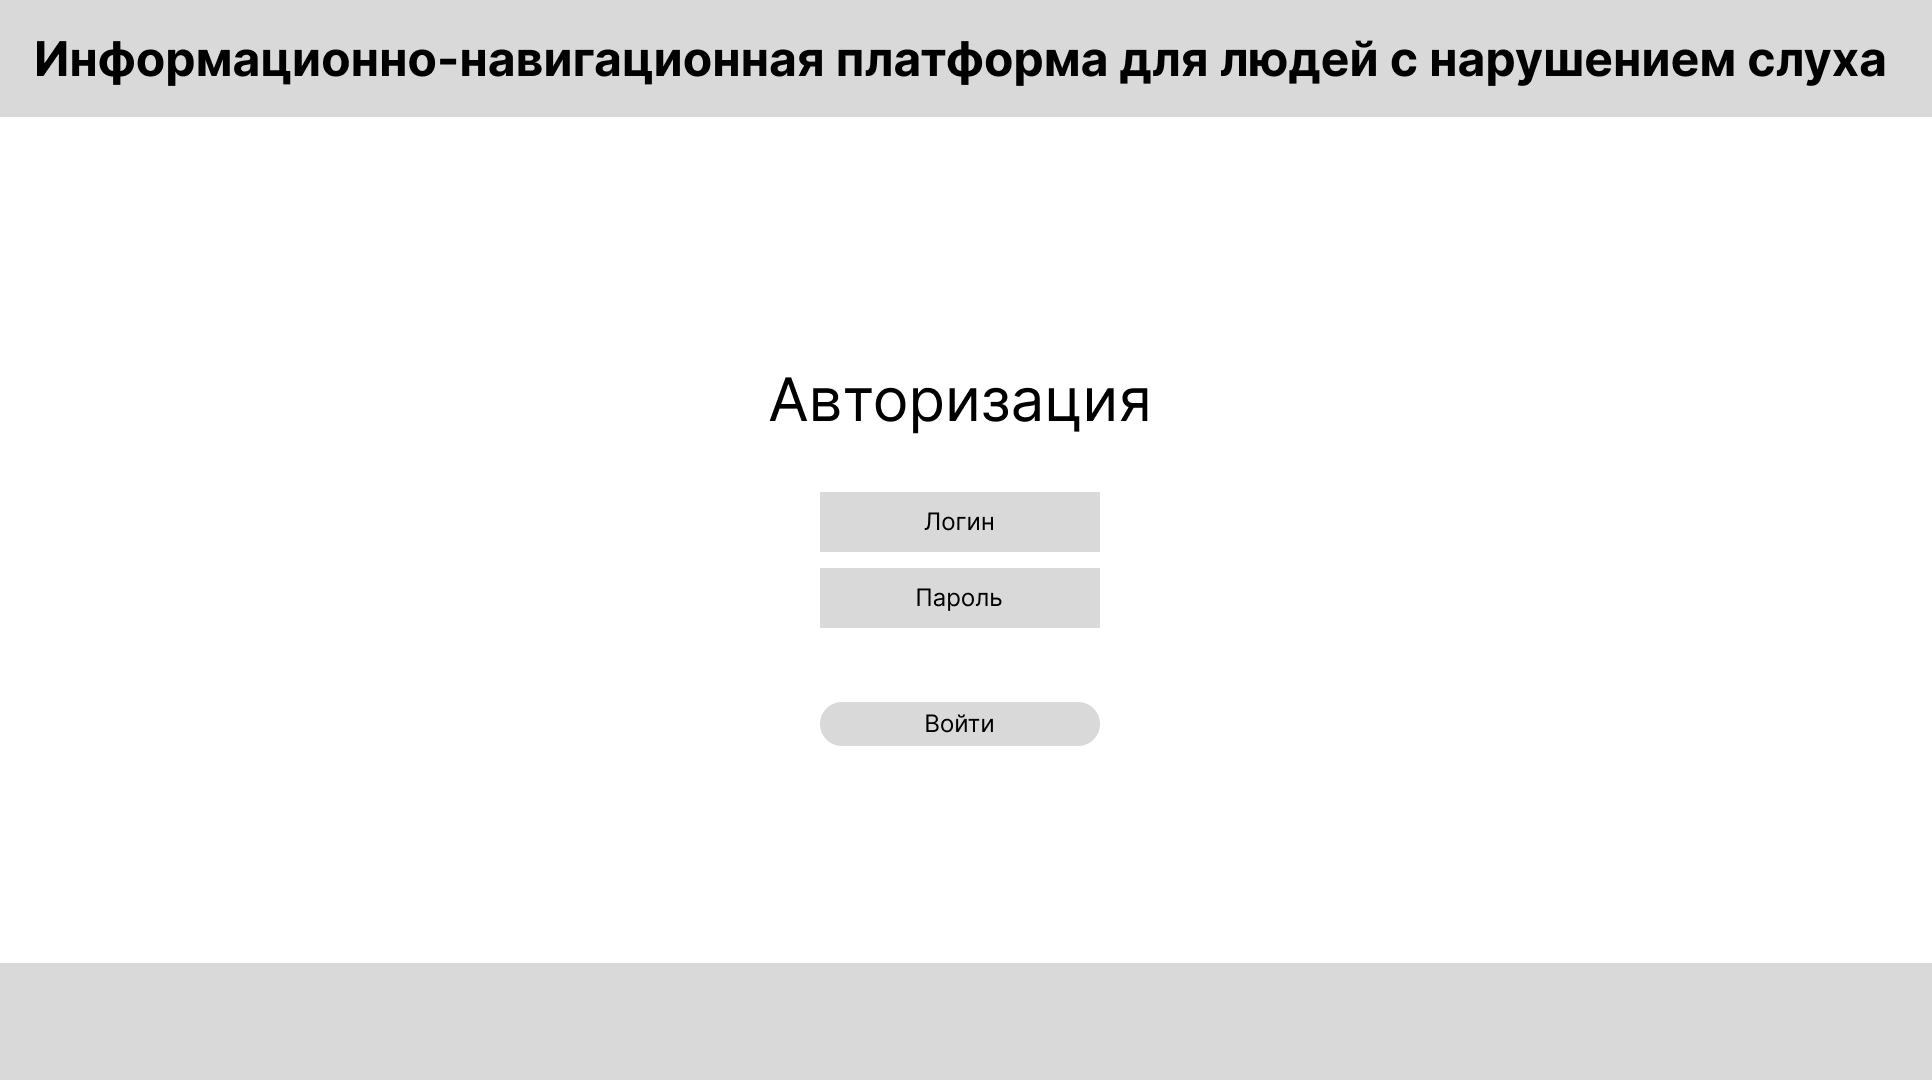
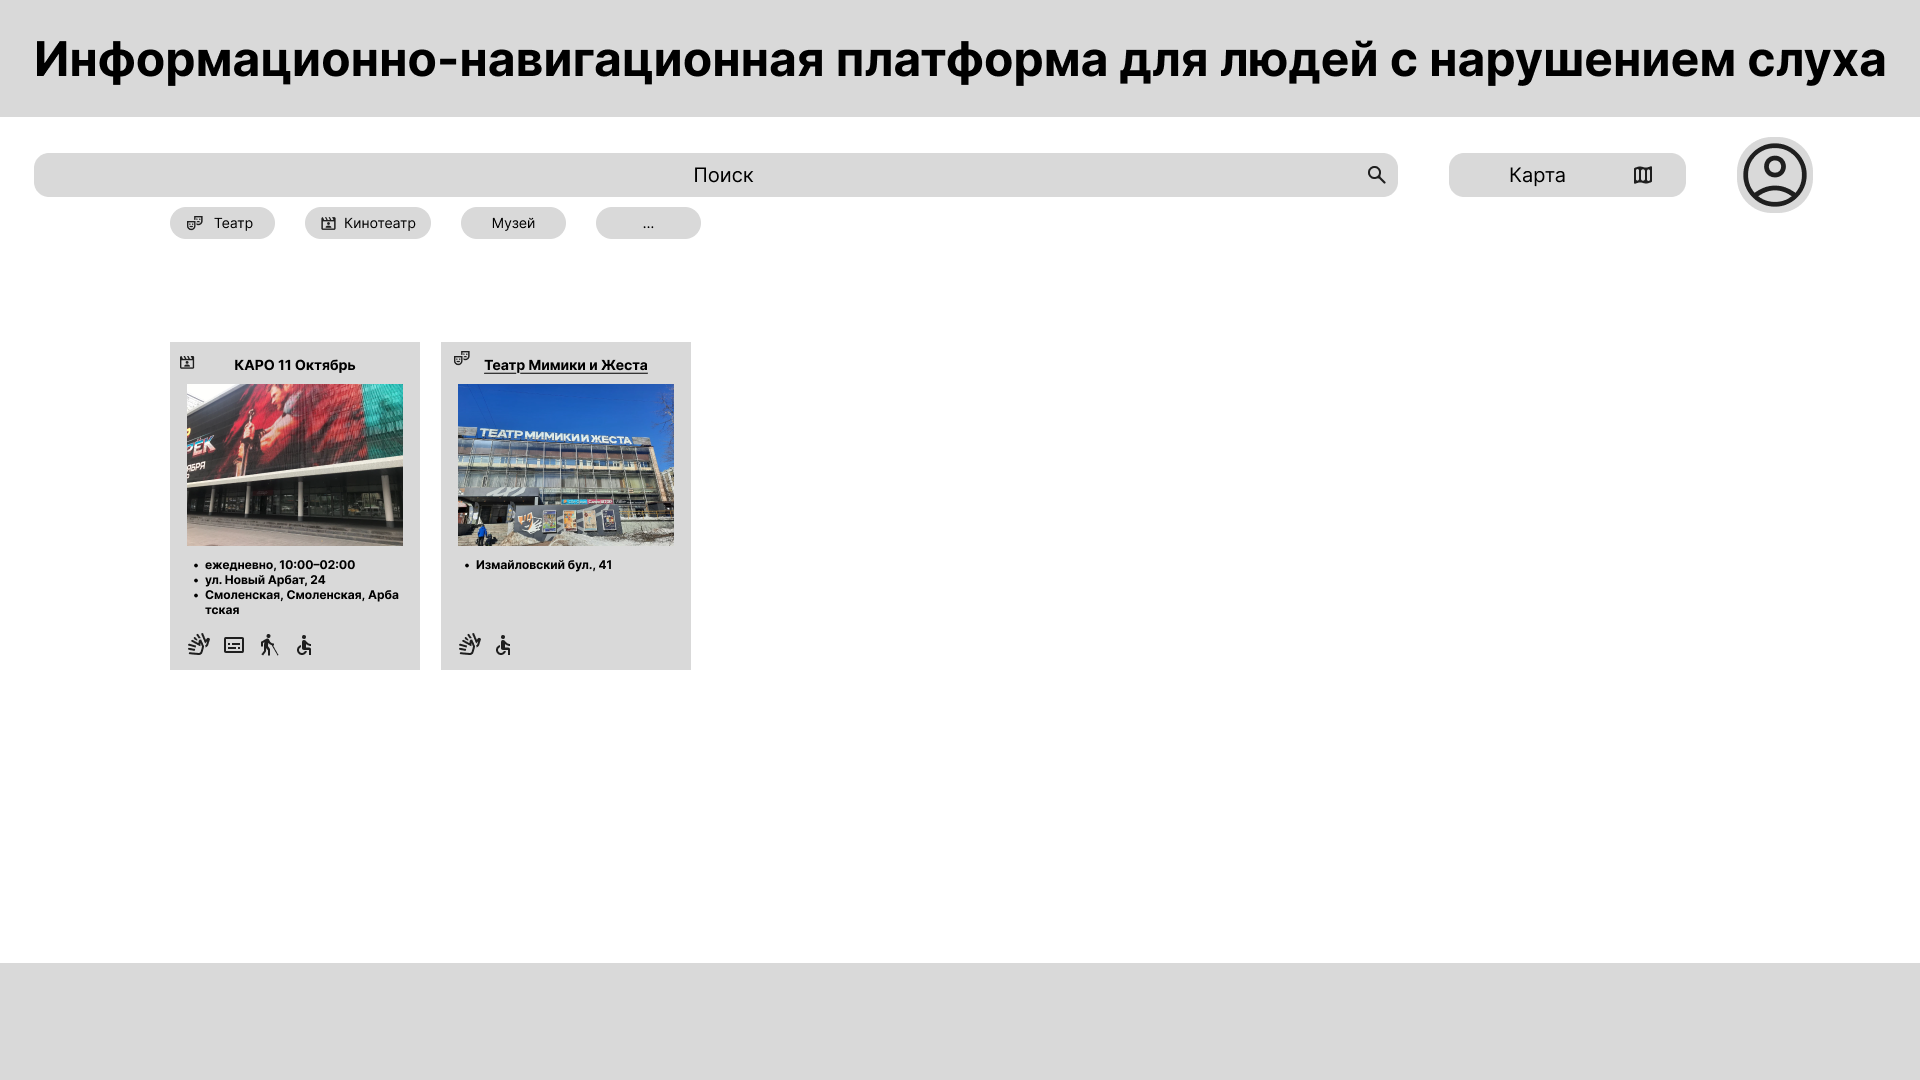
feat: добавить страницу списка зданий и реализовать базовую маршрутизацию
- Создана новая страница BuildingsPage с карточками объектов
- Реализована базовая маршрутизация между страницами авторизации и зданий
- Добавлены стили для новой страницы
- Обновлены глобальные стили для корректного отображения
- Добавлены примеры карточек зданий с информацией и иконками

diff --git a/client/src/pages/BuildingsPage/ui/BuildingsPage.tsx b/client/src/pages/BuildingsPage/ui/BuildingsPage.tsx
@@ -1,0 +1,63 @@
+import React from 'react';
+import './BuildingsPage.css';
+
+const buildings = [
+  {
+    name: 'КАРО 11 Октябрь',
+    image: 'https://avatars.mds.yandex.net/get-altay/1881734/2a0000016b31d4a3311953c7416353d0c893/XXL',
+    details: [
+      'ежедневно, 10:00-02:00',
+      'ул. Новый Арбат, 24',
+      'Смоленская, Смоленская, Арбатская',
+    ],
+    icons: ['hearing-aid', 'wheelchair', 'sign-language'],
+  },
+  {
+    name: 'Театр Мимики и Жеста',
+    image: 'https://dynamic-media-cdn.tripadvisor.com/media/photo-o/18/34/40/1f/caption.jpg?w=1200&h=-1&s=1',
+    details: ['Измайловский бул., 41'],
+    icons: ['hearing-aid', 'wheelchair'],
+  },
+];
+
+export const BuildingsPage: React.FC = () => {
+  return (
+    <div className="buildings-page">
+      <header className="buildings-header">
+        <h1>Информационно-навигационная платформа для людей с нарушением слуха</h1>
+        <div className="header-right">
+          <button className="map-button">Карта</button>
+          <div className="profile-icon"></div>
+        </div>
+      </header>
+      <main className="buildings-main">
+        <div className="search-container">
+          <input type="text" placeholder="Поиск" className="search-input" />
+        </div>
+        <div className="filter-buttons">
+          <button>Театр</button>
+          <button>Кинотеатр</button>
+          <button>Музей</button>
+          <button>...</button>
+        </div>
+        <div className="buildings-list">
+          {buildings.map((building, index) => (
+            <div className="building-card" key={index}>
+              <img src={building.image} alt={building.name} />
+              <h3>{building.name}</h3>
+              <ul>
+                {building.details.map((detail, i) => (
+                  <li key={i}>{detail}</li>
+                ))}
+              </ul>
+              <div className="building-icons">
+                {/* Icons would go here */}
+              </div>
+            </div>
+          ))}
+        </div>
+      </main>
+      <footer className="buildings-footer"></footer>
+    </div>
+  );
+};

diff --git a/client/src/pages/BuildingsPage/ui/BuildingsPage.css b/client/src/pages/BuildingsPage/ui/BuildingsPage.css
@@ -1,0 +1,117 @@
+.buildings-page {
+  display: flex;
+  flex-direction: column;
+  height: 100vh;
+  background-color: #ffffff;
+  color: #000000;
+  }
+
+.buildings-header {
+  background-color: #f0f0f0;
+  padding: 20px;
+  text-align: center;
+  border-bottom: 1px solid #e0e0e0;
+  display: flex;
+  justify-content: space-between;
+  align-items: center;
+}
+
+.buildings-header h1 {
+  margin: 0;
+  font-size: 1.5rem;
+  font-weight: 500;
+  text-align: left;
+}
+
+.header-right {
+  display: flex;
+  align-items: center;
+  gap: 20px;
+}
+
+.map-button {
+  border: 1px solid #e0e0e0;
+  background-color: #f0f0f0;
+  color: #000;
+  padding: 0.5rem 1rem;
+  border-radius: 8px;
+  font-size: 1rem;
+  cursor: pointer;
+}
+
+.profile-icon {
+    width: 40px;
+    height: 40px;
+    border-radius: 50%;
+    background-color: #ccc;
+    border: 2px solid #000;
+}
+
+.buildings-main {
+  flex-grow: 1;
+  padding: 20px;
+  overflow-y: auto;
+}
+
+.search-container {
+  margin-bottom: 20px;
+}
+
+.search-input {
+  width: 100%;
+  padding: 1rem;
+  border: 1px solid #e0e0e0;
+  border-radius: 8px;
+  font-size: 1rem;
+}
+
+.filter-buttons {
+  display: flex;
+  gap: 10px;
+  margin-bottom: 20px;
+}
+
+.filter-buttons button {
+  border: 1px solid #e0e0e0;
+  background-color: #f0f0f0;
+  color: #000;
+  padding: 0.5rem 1rem;
+  border-radius: 20px;
+  font-size: 1rem;
+  cursor: pointer;
+}
+
+.buildings-list {
+  display: grid;
+  grid-template-columns: repeat(auto-fill, minmax(250px, 1fr));
+  gap: 20px;
+}
+
+.building-card {
+  background-color: #f0f0f0;
+  border-radius: 8px;
+  overflow: hidden;
+}
+
+.building-card img {
+  width: 100%;
+  height: 150px;
+  object-fit: cover;
+}
+
+.building-card h3 {
+  font-size: 1.2rem;
+  margin: 10px;
+}
+
+.building-card ul {
+  list-style: none;
+  padding: 0 10px;
+  margin: 0 0 10px 0;
+}
+
+.buildings-footer {
+    height: 100px;
+    background-color: #f0f0f0;
+    margin-top: 20px;
+}

diff --git a/client/src/index.css b/client/src/index.css
@@ -1,7 +1,7 @@
 :root {
   font-family: system-ui, Avenir, Helvetica, Arial, sans-serif;
   line-height: 1.5;
-  /* font-weight: 400; */
+  font-weight: 400;
 
   color-scheme: light dark;
   color: rgba(255, 255, 255, 0.87);
@@ -11,6 +11,12 @@
   text-rendering: optimizeLegibility;
   -webkit-font-smoothing: antialiased;
   -moz-osx-font-smoothing: grayscale;
+}
+
+*,
+*::before,
+*::after {
+  box-sizing: border-box;
 }
 
 a {
@@ -23,13 +29,10 @@ a:hover {
 }
 
 body {
-  width: 100vw; /* Изменено на 100vw для полной ширины */
   margin: 0;
-  display: flex;
-  place-items: center;
-  /* min-width: 320px;
-  min-height: 100vh; */
-  overflow-x: hidden; /* Предотвращение горизонтального скролла */
+  min-width: 320px;
+  min-height: 100vh;
+  overflow-x: hidden;
 }
 
 h1 {

diff --git a/client/src/App.tsx b/client/src/App.tsx
@@ -1,6 +1,13 @@
 import { AuthPage } from './pages/AuthPage';
+import { BuildingsPage } from './pages/BuildingsPage';
 
 function App() {
+  const { pathname } = window.location;
+
+  if (pathname === '/buildings') {
+    return <BuildingsPage />;
+  }
+
   return (
     <AuthPage />
   )

diff --git a/client/src/pages/BuildingsPage/index.ts b/client/src/pages/BuildingsPage/index.ts
@@ -1,0 +1,1 @@
+export { BuildingsPage } from './ui/BuildingsPage';
